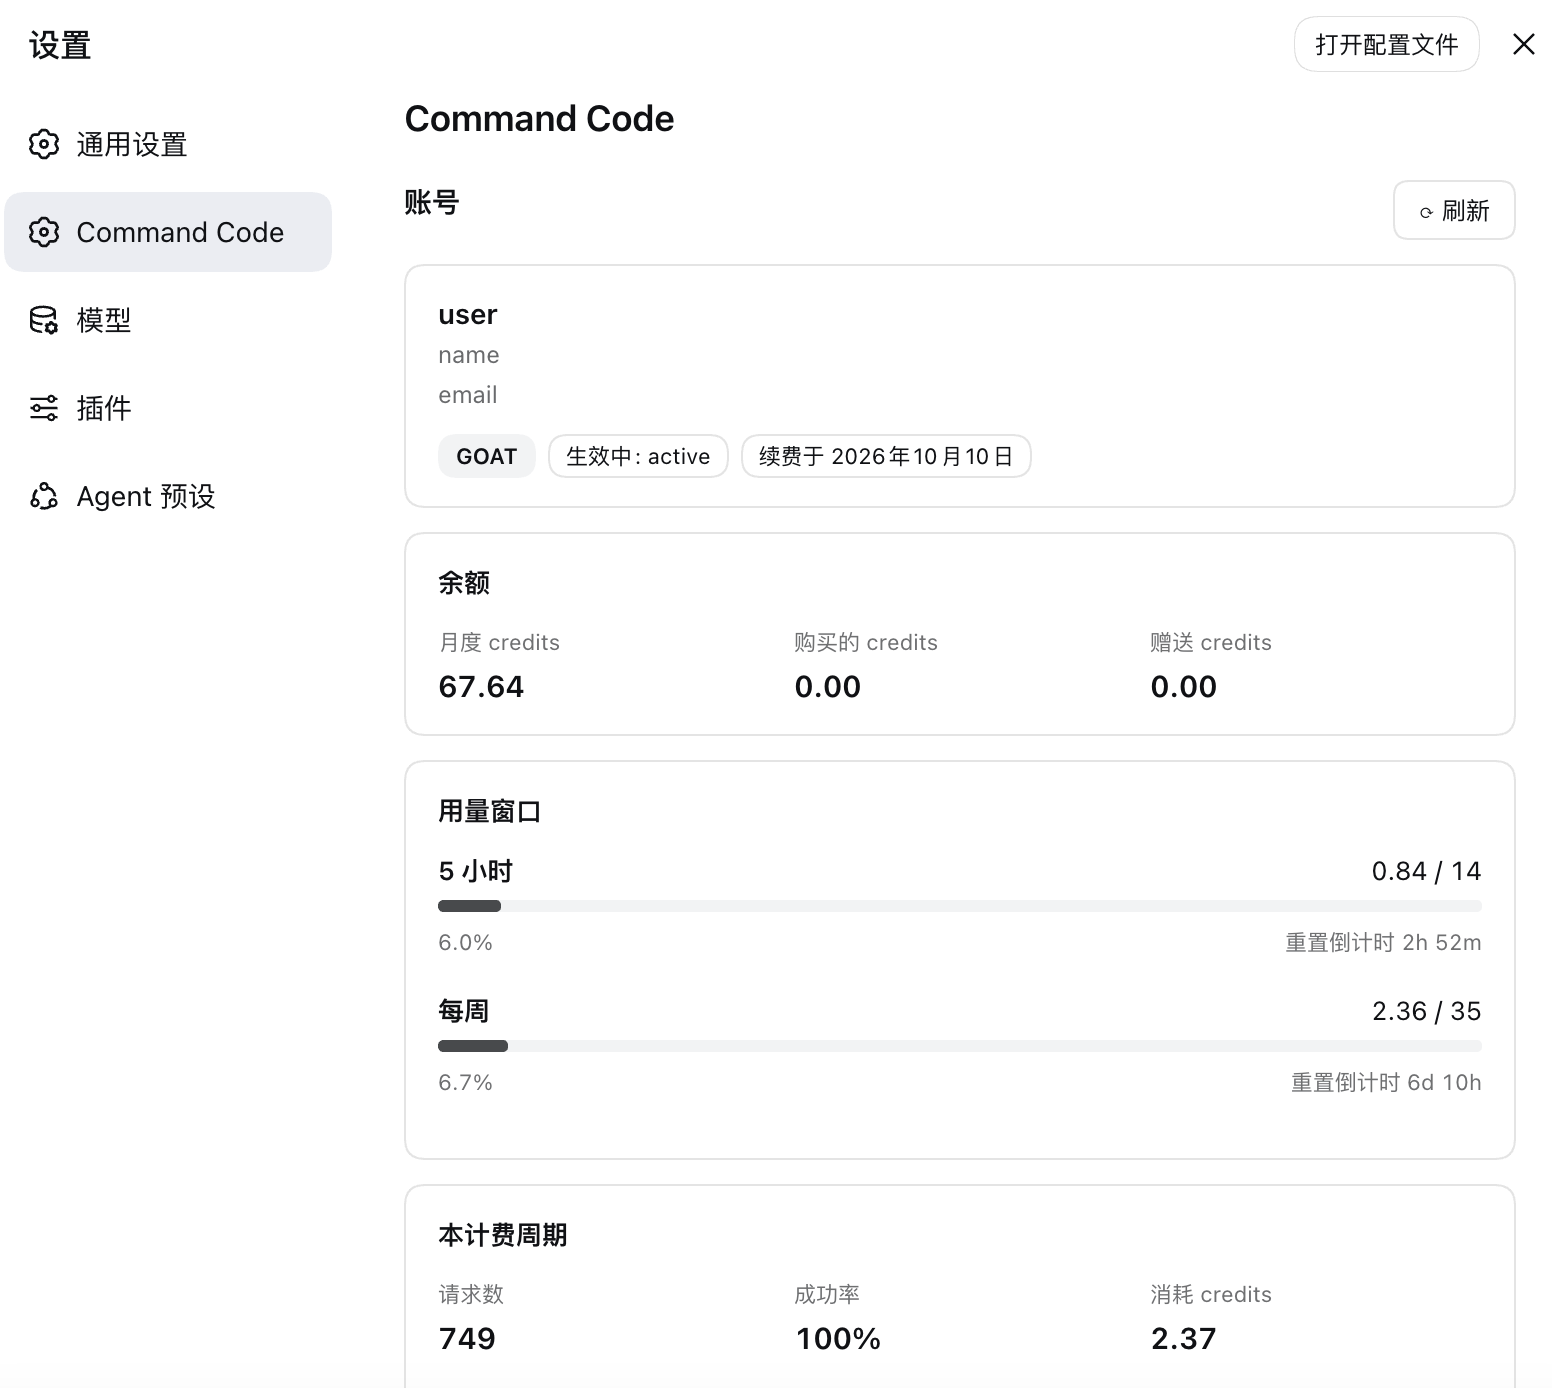
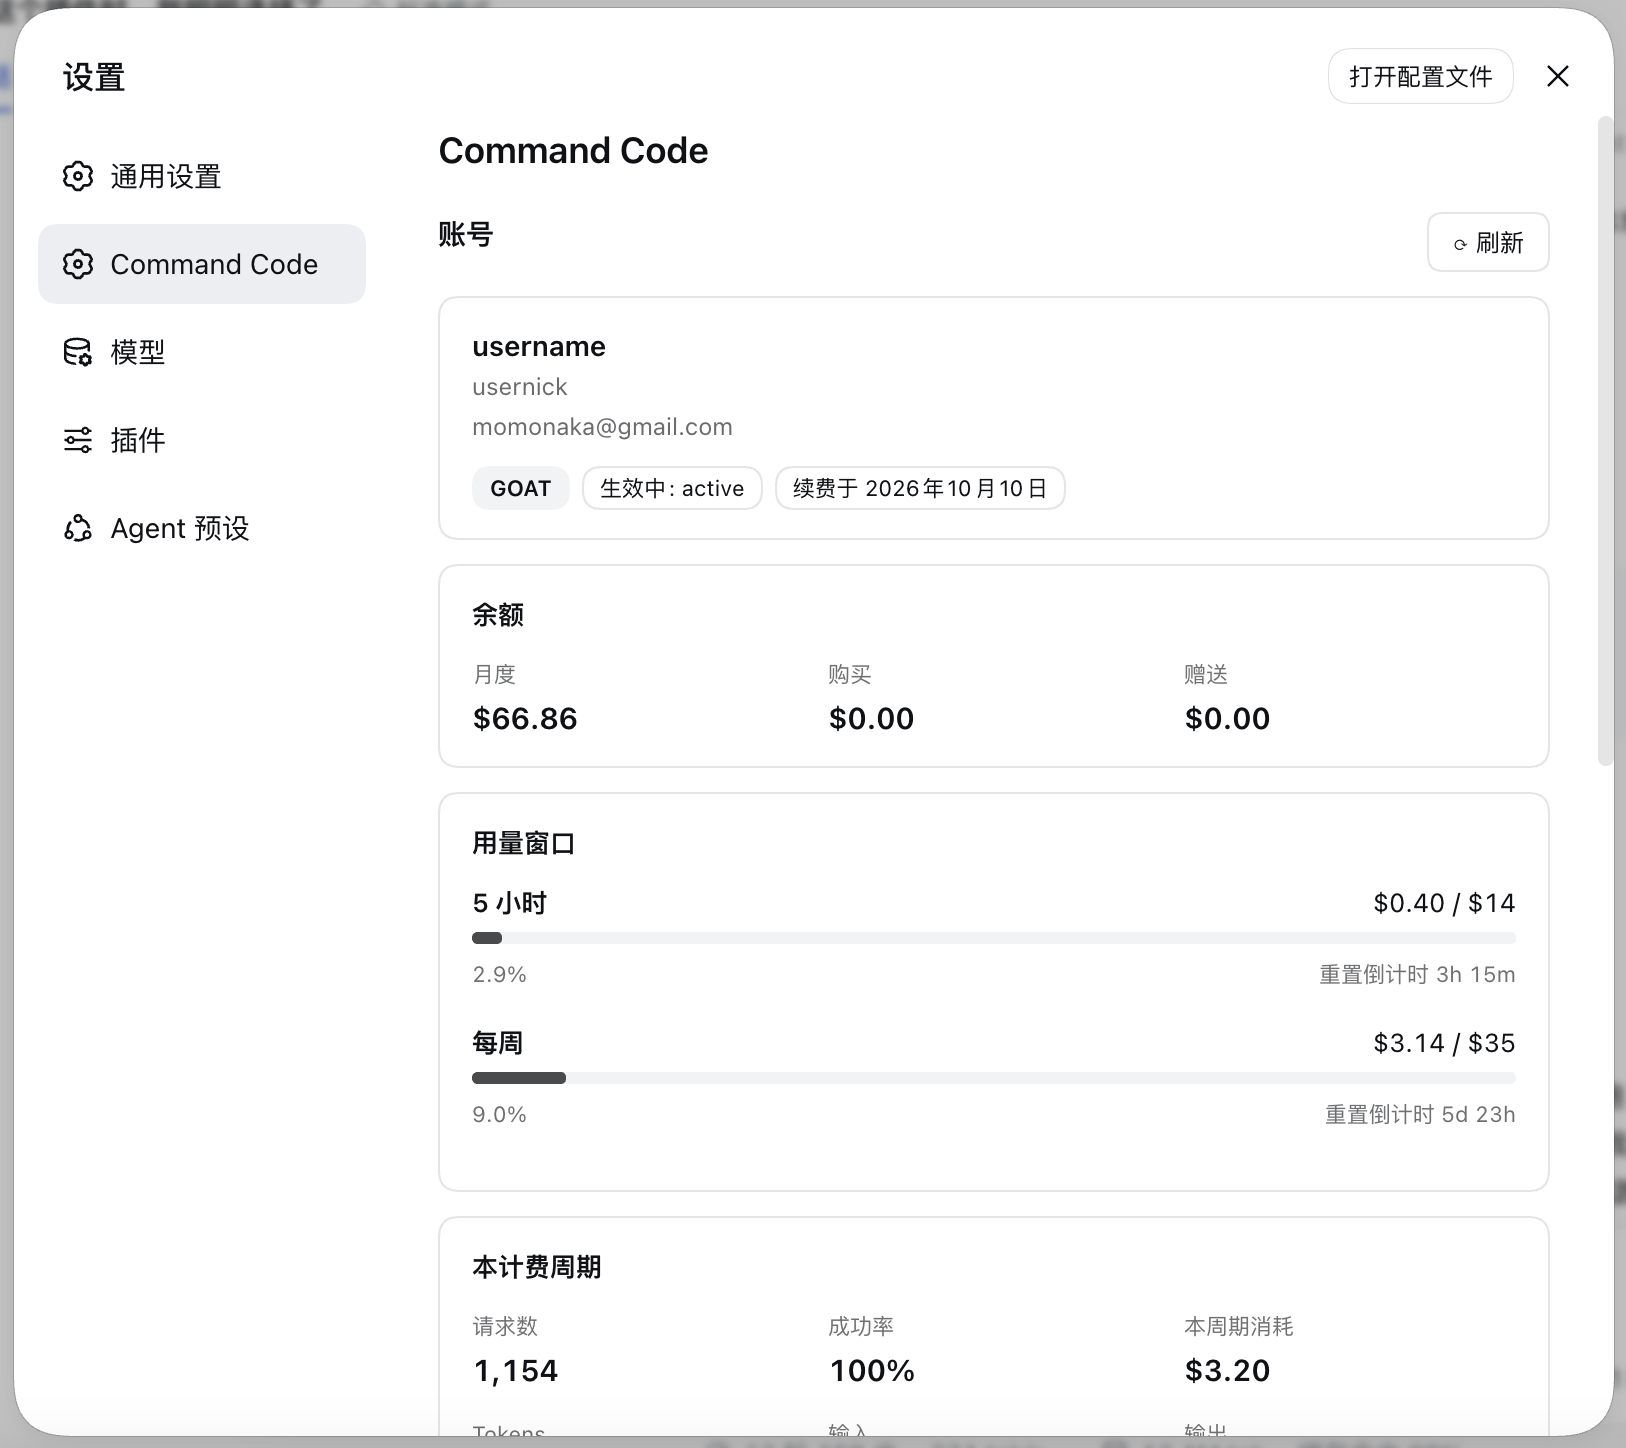
Refresh both preview screenshots
The account and model-catalog shots predate the dollar-labelled balances
and the removal of the capability column, so the panel they show no longer
matches what the plugin renders.

Replace both with current captures, and drop the modality wording the old
captions carried — the model table lists ids and context windows only, so
the feature row and both alt texts were describing a column that is gone.
Re-record the bilingual pair hashes as README.i18n.yaml requires.

diff --git a/README.md b/README.md
@@ -27,7 +27,7 @@ plugin that adds a **Command Code** section to the settings panel:
 | **Credits** | Monthly, purchased, and free credit balances from the live billing API. |
 | **Usage windows** | 5-hour and weekly windows as `used / cap` with progress bars and `resets in …` countdowns that tick without refetching. |
 | **Billing period** | Requests, success rate, credits consumed, and token totals. |
-| **Model catalog** | Every configured model with context window and modality, searchable. |
+| **Model catalog** | Every configured model with its context window, searchable. |
 | **Catalog sync** | Diffs the live catalog against your config, then applies additions, context-window fills, and removals — each on your say-so. |
 | **Setup card** | When no key is configured, the section becomes a form that stores one write-only. |
 
@@ -35,7 +35,7 @@ plugin that adds a **Command Code** section to the settings panel:
 
 ![The Command Code section: account, credit balances, and the 5-hour and weekly usage windows](https://raw.githubusercontent.com/Momonaka/commandcode-dash/main/docs/preview-account.png)
 
-![The model catalog with its context windows and declared modalities](https://raw.githubusercontent.com/Momonaka/commandcode-dash/main/docs/preview-models.png)
+![The model catalog with its context windows](https://raw.githubusercontent.com/Momonaka/commandcode-dash/main/docs/preview-models.png)
 
 ## Requirements
 

diff --git a/README.zh.md b/README.zh.md
@@ -26,7 +26,7 @@ Web 插件，在设置面板中新增 **Command Code** 分区：
 | **Credits** | 来自实时计费接口的月度、购买与赠送 credits 余额。 |
 | **用量窗口** | 5 小时与每周窗口，显示 `used / cap`（已用 / 上限）、进度条，以及会自行走动的 `resets in …` 倒计时（不重新请求）。 |
 | **计费周期** | 请求数、成功率、消耗 credits 与 Token 总量。 |
-| **模型目录** | 列出每个已配置模型及其上下文窗口与模态，支持搜索。 |
+| **模型目录** | 列出每个已配置模型及其上下文窗口，支持搜索。 |
 | **目录同步** | 对比实时目录与你的配置，然后在你确认后执行新增、补齐上下文窗口与移除。 |
 | **引导卡片** | 未配置 key 时，该分区会变成一个表单，以只写方式保存 key。 |
 
@@ -34,7 +34,7 @@ Web 插件，在设置面板中新增 **Command Code** 分区：
 
 ![Command Code 分区：账号、credits 余额，以及 5 小时与每周用量窗口](https://raw.githubusercontent.com/Momonaka/commandcode-dash/main/docs/preview-account.png)
 
-![模型目录，含上下文窗口与已声明的模态](https://raw.githubusercontent.com/Momonaka/commandcode-dash/main/docs/preview-models.png)
+![模型目录，含上下文窗口](https://raw.githubusercontent.com/Momonaka/commandcode-dash/main/docs/preview-models.png)
 
 ## 环境要求
 
